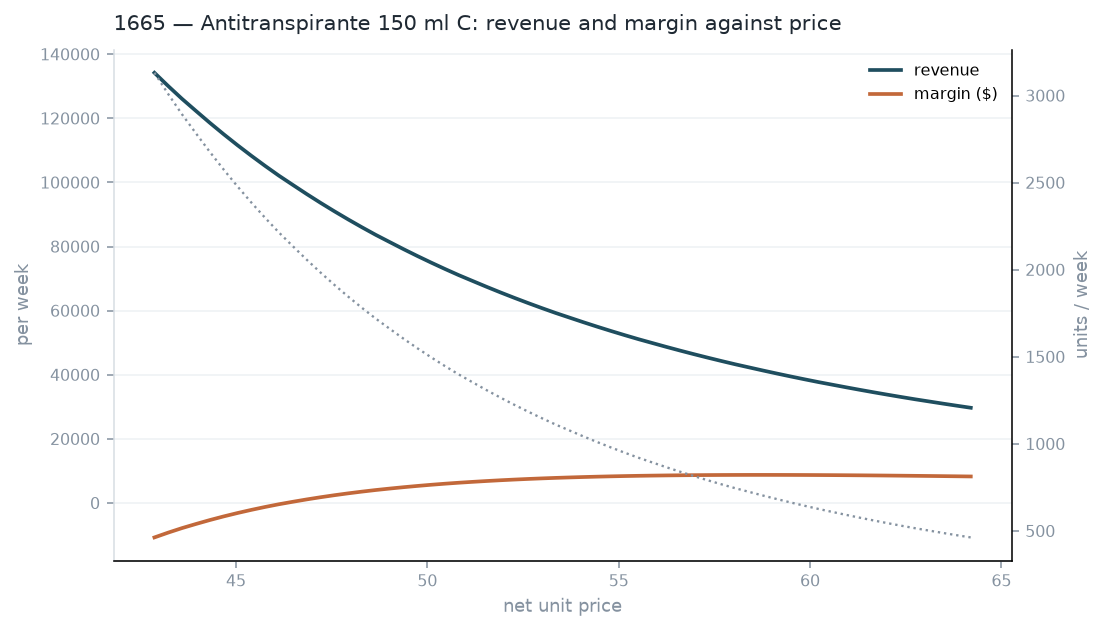
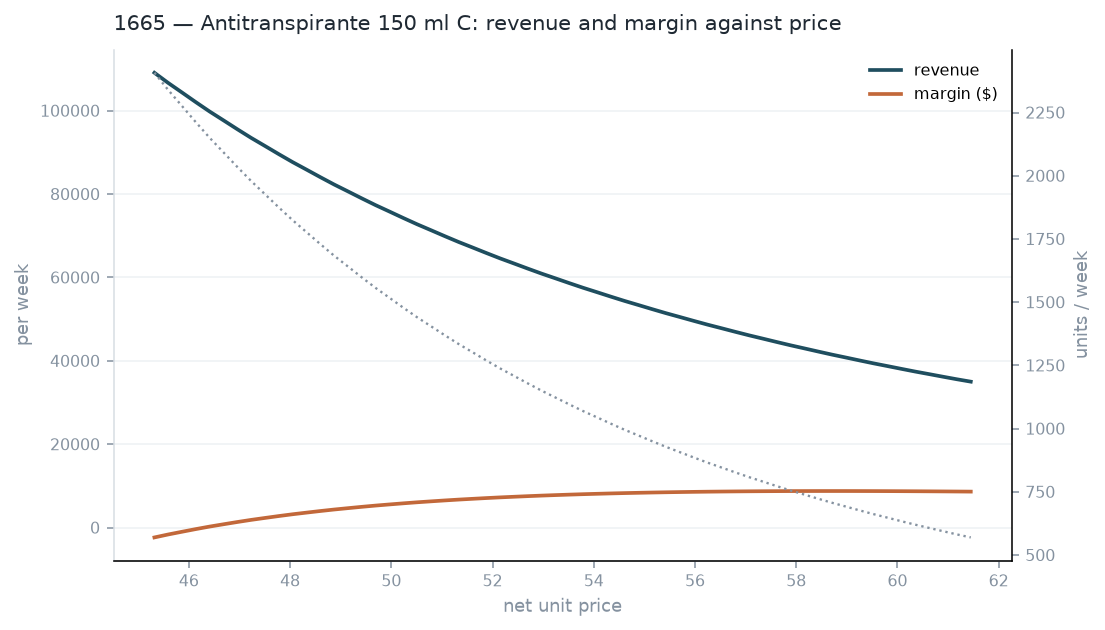
Bound the price simulator by the p5-p95 observed band
The raw min/max of realised weekly price are artefacts, not prices anyone
set: the floor is free bonus product inside combos, the ceiling is records
where net exceeds gross with a negative implied discount. observed_price_band
replaces both as the simulator's domain, and predict_units now refuses any
price outside it. For SKU 1665 the break-even price (46.41) still falls
inside the new 45.32-61.45 band, barely shifting from the prior 46.49 under
the raw range -- the revenue-maximising corner solution, not the break-even,
is what sits on the band boundary.

diff --git a/scripts/04_elasticity.py b/scripts/04_elasticity.py
@@ -32,12 +32,34 @@ def main(sku: str = SKU) -> None:
     fit = elasticity.estimate_elasticity(data)
     grid = elasticity.simulate(fit, data, margin_rate)
     recommendation = elasticity.recommend_price(grid)
+    band_low, band_high = elasticity.observed_price_band(data)
+
+    # Same per-SKU population as the break-even table in section 6, so the two
+    # tables are directly comparable.
+    price_bands = []
+    for row in rates.itertuples():
+        panel = elasticity.weekly_price_panel(flagged, row.product_code)
+        if panel.empty:
+            continue
+        low, high = elasticity.observed_price_band(panel)
+        price_bands.append(
+            {
+                "product_code": row.product_code,
+                "product_name": row.product_name,
+                "weeks": len(panel),
+                "raw_min": round(float(panel["price"].min()), 2),
+                "raw_max": round(float(panel["price"].max()), 2),
+                "band_p05": round(low, 2),
+                "band_p95": round(high, 2),
+            }
+        )
+    price_band_table = pd.DataFrame(price_bands)
 
     report = MarkdownReport(
         title="Stage 04 — Price elasticity and simulator (Challenge B)",
         stage="scripts/04_elasticity.py",
         subtitle=f"SKU {sku} — {name}. Demand response to realised price, and a "
-                 "simulator bounded to the observed price range.",
+                 "simulator bounded to the p5–p95 observed price band.",
     )
 
     # ------------------------------------------------------- identification
@@ -145,8 +167,26 @@ def main(sku: str = SKU) -> None:
 
     # ------------------------------------------------------------ simulator
     report.heading("4. Simulator")
+    report.heading("Price range with evidence behind it", level=3)
     report.text(
-        f"Expected weekly demand, revenue and margin across the observed price range "
+        "The raw min and max of realised weekly price are not prices anyone set: the floor "
+        "is free bonus product shipped inside a combo (a zero-revenue line still carrying "
+        "units), and the ceiling is a handful of weeks where net exceeds gross and the "
+        "implied discount is negative (F-004). Both tails are artefacts of how a combo "
+        "reconciles, not evidence about a price the business would charge. The simulator is "
+        "therefore bounded to the p5–p95 band of realised price instead, and it **refuses** "
+        "to price outside that band — `predict_units` raises rather than extrapolating."
+    )
+    report.table(price_band_table)
+    sku_band_row = price_band_table.loc[price_band_table["product_code"].eq(sku)].iloc[0]
+    report.note(
+        f"**SKU {sku}, concretely.** The raw observed range was "
+        f"{sku_band_row['raw_min']:.2f}–{sku_band_row['raw_max']:.2f}. The p5–p95 band used "
+        f"from here on is {band_low:.2f}–{band_high:.2f} — narrower at the top, because the "
+        "raw ceiling was the artefact tail described above."
+    )
+    report.text(
+        f"Expected weekly demand, revenue and margin across the observed price band "
         f"({recommendation['observed_min']:.2f} – {recommendation['observed_max']:.2f}), "
         "holding season and trend at their average. Every tenth grid point:"
     )
@@ -163,7 +203,7 @@ def main(sku: str = SKU) -> None:
     )
     report.note(
         "**The simulator refuses to extrapolate.** Its grid is constructed from the "
-        "observed price range and cannot be queried outside it. A constant-elasticity "
+        "p5–p95 observed price band and cannot be queried outside it. A constant-elasticity "
         "curve extended past the data is arithmetic, not evidence — and the further it "
         "goes, the more confident it looks."
     )
@@ -201,9 +241,9 @@ def main(sku: str = SKU) -> None:
         "those prices is bought at a loss."
     )
     report.note(
-        "**The revenue-maximising price sits on the boundary of the observed range**, which "
-        "is a corner solution: it means revenue was still rising as price fell at the "
-        "cheapest price ever charged, so the true revenue optimum may lie below anything "
+        "**The revenue-maximising price sits on the boundary of the observed price band**, "
+        "which is a corner solution: it means revenue was still rising as price fell at the "
+        "cheapest price the band admits, so the true revenue optimum may lie below anything "
         "the data has seen. That is precisely where the simulator refuses to answer, and "
         "the refusal is the correct behaviour — it is also why the recommendation is built "
         "on the margin curve, which does peak inside the evidence."

diff --git a/src/analysis/elasticity.py b/src/analysis/elasticity.py
@@ -95,14 +95,41 @@ def estimate_elasticity(
     }
 
 
+def observed_price_band(
+    data: pd.DataFrame, low_q: float = 0.05, high_q: float = 0.95
+) -> tuple[float, float]:
+    """The price range the simulator is allowed to answer within.
+
+    Not the raw min and max: the floor of the realised-price distribution is
+    bonus product shipped inside a combo and the ceiling is records where net
+    exceeds gross, so both tails are artefacts rather than prices anyone set.
+    Quantiles keep the band inside the evidence.
+    """
+    return (
+        float(data["price"].quantile(low_q)),
+        float(data["price"].quantile(high_q)),
+    )
+
+
 def predict_units(
-    fit: dict[str, object], data: pd.DataFrame, price: float, fourier_order: int = 2
+    fit: dict[str, object],
+    data: pd.DataFrame,
+    price: float,
+    fourier_order: int = 2,
+    band: tuple[float, float] | None = None,
 ) -> float:
     """Expected weekly units at ``price``, holding season and trend at their means.
 
     "At the average week" is the right frame for a quarterly pricing decision:
     the recommendation is a policy, not a forecast for one specific week.
     """
+    if band is not None and not (band[0] <= price <= band[1]):
+        raise ValueError(
+            f"Price {price:.2f} is outside the observed price band "
+            f"[{band[0]:.2f}, {band[1]:.2f}]. The case forbids extrapolating "
+            "beyond observed prices, and a constant-elasticity curve past the "
+            "data is arithmetic, not evidence."
+        )
     model = fit["model"]
     design = _design_matrix(data, fourier_order)
     reference = design.mean()
@@ -118,14 +145,16 @@ def simulate(
     n_points: int = 60,
     fourier_order: int = 2,
 ) -> pd.DataFrame:
-    """Price → demand, revenue and margin across the observed price range only.
+    """Price → demand, revenue and margin across the p5–p95 observed price band.
 
-    The grid is clipped to observed prices by construction. Extrapolating a
-    constant-elasticity curve past the data is arithmetic, not evidence — the
-    case says so explicitly, and a simulator that silently allows it invites the
-    exact mistake it warns about.
+    The grid is clipped to the observed price band (`observed_price_band`), not
+    the raw min/max: those extremes are artefacts (bonus-product giveaways at
+    the floor, net-exceeds-gross records at the ceiling), not prices anyone
+    set. Extrapolating a constant-elasticity curve past the data is arithmetic,
+    not evidence — the case says so explicitly, and a simulator that silently
+    allows it invites the exact mistake it warns about.
     """
-    low, high = float(data["price"].min()), float(data["price"].max())
+    low, high = observed_price_band(data)
     prices = np.linspace(low, high, n_points)
 
     # Cost is anchored to the SKU's list price, which is a property of the
@@ -135,7 +164,7 @@ def simulate(
 
     rows = []
     for price in prices:
-        units = predict_units(fit, data, price, fourier_order)
+        units = predict_units(fit, data, price, fourier_order, band=(low, high))
         revenue, margin_value, margin_pct = economics.margin_at_price(
             price, units, cost
         )

diff --git a/tests/test_elasticity.py b/tests/test_elasticity.py
@@ -1,0 +1,47 @@
+import numpy as np
+import pandas as pd
+import pytest
+
+from analysis import elasticity
+
+
+@pytest.fixture
+def price_weeks() -> pd.DataFrame:
+    """40 weeks of clean prices around 50, plus one broken week at 400."""
+    rng = np.random.default_rng(0)
+    prices = np.concatenate([np.linspace(45.0, 55.0, 39), [400.0]])
+    units = 10_000 / prices * rng.uniform(0.95, 1.05, len(prices))
+    weeks = pd.date_range("2025-01-06", periods=len(prices), freq="7D")
+    return pd.DataFrame(
+        {
+            "week_start": weeks,
+            "price": prices,
+            "list_price": prices * 1.1,
+            "units": units,
+            "week_of_year": weeks.isocalendar().week.astype(int),
+            "t": np.arange(len(prices)),
+        }
+    )
+
+
+def test_band_excludes_the_broken_extreme(price_weeks):
+    low, high = elasticity.observed_price_band(price_weeks)
+    assert high < 100.0
+    assert low >= price_weeks["price"].min()
+
+
+def test_predict_units_refuses_a_price_outside_the_band(price_weeks):
+    fit = elasticity.estimate_elasticity(price_weeks)
+    band = elasticity.observed_price_band(price_weeks)
+
+    with pytest.raises(ValueError, match="outside the observed price band"):
+        elasticity.predict_units(fit, price_weeks, 400.0, band=band)
+
+
+def test_simulate_grid_stays_inside_the_band(price_weeks):
+    fit = elasticity.estimate_elasticity(price_weeks)
+    low, high = elasticity.observed_price_band(price_weeks)
+    grid = elasticity.simulate(fit, price_weeks, margin_rate=0.25)
+
+    assert grid["price"].min() >= round(low, 2) - 0.01
+    assert grid["price"].max() <= round(high, 2) + 0.01

diff --git a/reports/04_elasticity.md b/reports/04_elasticity.md
@@ -2,12 +2,12 @@
 
 > **Generated artifact — do not edit by hand.** Produced by `scripts/04_elasticity.py`; re-run the script to regenerate.
 
-SKU 1665 — Antitranspirante 150 ml C. Demand response to realised price, and a simulator bounded to the observed price range.
+SKU 1665 — Antitranspirante 150 ml C. Demand response to realised price, and a simulator bounded to the p5–p95 observed price band.
 
 | Run metadata | Value |
 |---|---|
 | Stage | `scripts/04_elasticity.py` |
-| Generated (UTC) | 2026-08-04 03:27:29 |
+| Generated (UTC) | 2026-08-04 03:38:24 |
 | Source file | `20260701_Prueba_tecnica_AI Engineer.csv` |
 | Source SHA-256 | `a8a9b8a3d5c91955…` |
 | Param · sku | 1665 |
@@ -71,44 +71,59 @@ Margin cannot be read off the file: `product_margin` is absent and `product_cost
 
 ## 4. Simulator
 
-Expected weekly demand, revenue and margin across the observed price range (42.87 – 64.20), holding season and trend at their average. Every tenth grid point:
+### Price range with evidence behind it
+
+The raw min and max of realised weekly price are not prices anyone set: the floor is free bonus product shipped inside a combo (a zero-revenue line still carrying units), and the ceiling is a handful of weeks where net exceeds gross and the implied discount is negative (F-004). Both tails are artefacts of how a combo reconciles, not evidence about a price the business would charge. The simulator is therefore bounded to the p5–p95 band of realised price instead, and it **refuses** to price outside that band — `predict_units` raises rather than extrapolating.
+
+| product_code | product_name | weeks | raw_min | raw_max | band_p05 | band_p95 |
+|---|---|---|---|---|---|---|
+| 1283 | Cubito de pollo c/50 | 72 | 180.2 | 204.5 | 182.2 | 203.4 |
+| 1665 | Antitranspirante 150 ml C | 72 | 42.87 | 64.2 | 45.32 | 61.45 |
+| 1857 | Shampoo Rizos 135 ml | 72 | 18.34 | 20.98 | 19 | 20.89 |
+| 1858 | Shampoo 135 ml Azul | 72 | 17.98 | 21 | 18.97 | 20.88 |
+| 1875 | Desodorante 150 ml A | 72 | 42.95 | 64.93 | 45.44 | 61.57 |
+| 9304 | Shampoo 180ml Verde | 72 | 15.24 | 17.34 | 15.72 | 17.29 |
+
+> **SKU 1665, concretely.** The raw observed range was 42.87–64.20. The p5–p95 band used from here on is 45.32–61.45 — narrower at the top, because the raw ceiling was the artefact tail described above.
+
+Expected weekly demand, revenue and margin across the observed price band (45.32 – 61.45), holding season and trend at their average. Every tenth grid point:
 
 | price | units | revenue | margin_value | margin_pct | unit_cost |
 |---|---|---|---|---|---|
-| 42.87 | 3,131 | 1.342e+05 | -1.074e+04 | -0.08 | 46.3 |
-| 45.04 | 2,479 | 1.116e+05 | -3,123 | -0.028 | 46.3 |
-| 47.21 | 1,984 | 9.366e+04 | 1,804 | 0.0193 | 46.3 |
-| 49.38 | 1,604 | 7.92e+04 | 4,938 | 0.0623 | 46.3 |
-| 51.55 | 1,308 | 6.745e+04 | 6,867 | 0.1018 | 46.3 |
-| 53.72 | 1,077 | 5.783e+04 | 7,985 | 0.1381 | 46.3 |
-| 55.89 | 892.6 | 4.988e+04 | 8,556 | 0.1715 | 46.3 |
-| 58.05 | 745.3 | 4.327e+04 | 8,762 | 0.2025 | 46.3 |
-| 60.22 | 626.5 | 3.773e+04 | 8,724 | 0.2312 | 46.3 |
-| 62.39 | 529.9 | 3.306e+04 | 8,528 | 0.2579 | 46.3 |
+| 45.32 | 2,407 | 1.091e+05 | -2,361 | -0.0216 | 46.3 |
+| 46.96 | 2,034 | 9.554e+04 | 1,342 | 0.014 | 46.3 |
+| 48.6 | 1,729 | 8.404e+04 | 3,977 | 0.0473 | 46.3 |
+| 50.24 | 1,478 | 7.424e+04 | 5,822 | 0.0784 | 46.3 |
+| 51.88 | 1,269 | 6.585e+04 | 7,083 | 0.1076 | 46.3 |
+| 53.52 | 1,095 | 5.863e+04 | 7,909 | 0.1349 | 46.3 |
+| 55.16 | 949.6 | 5.238e+04 | 8,413 | 0.1606 | 46.3 |
+| 56.8 | 826.6 | 4.695e+04 | 8,679 | 0.1849 | 46.3 |
+| 58.44 | 722.4 | 4.222e+04 | 8,770 | 0.2077 | 46.3 |
+| 60.08 | 633.6 | 3.807e+04 | 8,732 | 0.2294 | 46.3 |
 
 ![1665 (Antitranspirante 150 ml C): revenue and margin in currency against realised unit price, with expected units on the right axis. Where the two curves peak at different prices is precisely the trade-off the commercial team has to settle.](figures/04_simulator_1665.png)
 
 *1665 (Antitranspirante 150 ml C): revenue and margin in currency against realised unit price, with expected units on the right axis. Where the two curves peak at different prices is precisely the trade-off the commercial team has to settle.*
 
-> **The simulator refuses to extrapolate.** Its grid is constructed from the observed price range and cannot be queried outside it. A constant-elasticity curve extended past the data is arithmetic, not evidence — and the further it goes, the more confident it looks.
+> **The simulator refuses to extrapolate.** Its grid is constructed from the p5–p95 observed price band and cannot be queried outside it. A constant-elasticity curve extended past the data is arithmetic, not evidence — and the further it goes, the more confident it looks.
 
 ## 5. Recommended price
 
 | Item | Value |
 |---|---|
-| Revenue-maximising price | 42.87 |
-| Margin-maximising price | 58.78 |
-| Balanced recommendation | 55.16 |
-| Expected units/week at that price | 949 |
-| Expected weekly revenue | 5.237e+04 |
-| Expected weekly margin ($) | 8,414 |
-| Expected margin (%) | 16.1 |
+| Revenue-maximising price | 45.32 |
+| Margin-maximising price | 58.71 |
+| Balanced recommendation | 54.34 |
+| Expected units/week at that price | 1,019 |
+| Expected weekly revenue | 5.539e+04 |
+| Expected weekly margin ($) | 8,196 |
+| Expected margin (%) | 14.8 |
 
 The balanced price maximises the average of revenue and margin, each normalised to its own maximum. The rule is stated rather than hidden so the commercial team can argue with the weighting instead of with a black box — if margin matters more this quarter, the margin-maximising price is the one to take.
 
-> **The single most actionable number here is the break-even price: 46.49.** Below it, every additional unit sold loses money under the assumed cost of 46.30. 8 of the 72 weeks in the history — 11% — were priced below that line. The elastic demand is real, but the volume it buys at those prices is bought at a loss.
+> **The single most actionable number here is the break-even price: 46.41.** Below it, every additional unit sold loses money under the assumed cost of 46.30. 7 of the 72 weeks in the history — 10% — were priced below that line. The elastic demand is real, but the volume it buys at those prices is bought at a loss.
 
-> **The revenue-maximising price sits on the boundary of the observed range**, which is a corner solution: it means revenue was still rising as price fell at the cheapest price ever charged, so the true revenue optimum may lie below anything the data has seen. That is precisely where the simulator refuses to answer, and the refusal is the correct behaviour — it is also why the recommendation is built on the margin curve, which does peak inside the evidence.
+> **The revenue-maximising price sits on the boundary of the observed price band**, which is a corner solution: it means revenue was still rising as price fell at the cheapest price the band admits, so the true revenue optimum may lie below anything the data has seen. That is precisely where the simulator refuses to answer, and the refusal is the correct behaviour — it is also why the recommendation is built on the margin curve, which does peak inside the evidence.
 
 ## 6. Break-even discount by SKU
 
